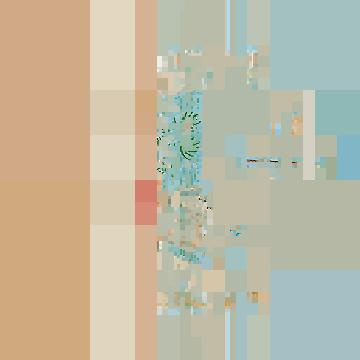
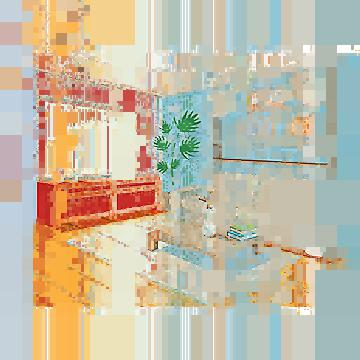
Updated the cluster creation for test

diff --git a/quadratic_tree_segmentation.py b/quadratic_tree_segmentation.py
@@ -1,9 +1,9 @@
 import numpy as np
 import matplotlib.image as img
-import matplotlib.colors as colors
 from metrics import pixel_distance_rgb, node_cluster_distance
 from copy import deepcopy
 import yaml
+import time
 
 # Init environment
 
@@ -14,7 +14,7 @@ nodes = []
 out_image = None
 
 tree_list = []
-clusters = []
+clusters = {}
 cluster_idx = 0
 
 
@@ -34,6 +34,7 @@ class Node:
         self.mg = 0.0
         self.mb = 0.0
 
+        # Cluster identification index
         self.cluster_idx = None
 
 
@@ -75,6 +76,19 @@ class Cluster:
         current_node = nodes[idx]
         d = node_cluster_distance(self.mr, self.mg, self.mb, current_node.mr, current_node.mg, current_node.mb)
         return d < tolerance
+
+
+def touching(n1_idx: int, n2_idx: int) -> bool:
+    global nodes
+    n1 = nodes[n1_idx]
+    n2 = nodes[n2_idx]
+
+    if n1.x == n2.x or n1.x == n2.x + n2.w:
+        return (n2.y <= n1.y <= n2.y + n2.h) or (n1.y <= n2.y <= n1.y + n1.h)
+    if n1.y == n2.y or n1.y == n2.y + n2.h:
+        return (n2.x <= n1.x <= n2.x + n2.w) or (n1.x <= n2.x <= n1.x + n1.w)
+
+    return False
 
 
 def homogenous(idx: int, tolerance: float, image: np.ndarray) -> bool:
@@ -151,15 +165,10 @@ def split(idx: int, tolerance: float, image: np.ndarray):
     _wo, _ho = w % 2, h % 2  # offsets
 
     original_x, original_y = current_node.x, current_node.y
-
     # Split the image to all successors
-
     global_tree[idx].append(add_node(idx, original_x, original_y, _w, _h, tolerance, image).idx)
-
     global_tree[idx].append(add_node(idx, original_x + _w, original_y, _w + _wo, _h, tolerance, image).idx)
-
     global_tree[idx].append(add_node(idx, original_x, original_y + _h, _w, _h + _ho, tolerance, image).idx)
-
     global_tree[idx].append(add_node(idx, original_x + _w, original_y + _h, _w + _wo, _h + _ho, tolerance, image).idx)
 
 
@@ -181,7 +190,7 @@ def create_tree(tolerance: float, image: np.ndarray) -> None:
     split(root.idx, tolerance, image)
 
 
-def apply_mean_rgb_node(idx: int, mr: float or None, mg: float or None, mb: float or None) -> None:
+def apply_mean_rgb_node(idx: int, mr: float or None = None, mg: float or None = None, mb: float or None = None) -> None:
     global global_tree
     global nodes
     global out_image
@@ -238,32 +247,49 @@ def create_clusters(tolerance: float):
     global cluster_idx
     global tree_list
 
-    base_cluster = Cluster(cluster_idx)
-    cluster_idx += 1
+    current_idx = 0
+    while current_idx != len(tree_list) // 10:
+        print(current_idx)
+        neighbours = list(filter(lambda idx: touching(idx, tree_list[current_idx]) or
+                                             touching(tree_list[current_idx], idx),
+                                 tree_list))
 
-    base_cluster.add_node(tree_list[0])
-    nodes[tree_list[0]].cluster_idx = base_cluster.idx
+        sorted_neighbours = sorted(neighbours, key=lambda n: -node_cluster_distance(
+                nodes[tree_list[current_idx]].mr, nodes[tree_list[current_idx]].mg, nodes[tree_list[current_idx]].mb,
+                nodes[tree_list[n]].mr, nodes[tree_list[n]].mg, nodes[tree_list[n]].mb))
 
-    clusters.append(base_cluster)
+        best_neighbour_idx = sorted_neighbours[0]
 
-    for node_idx in tree_list[1:]:
-        added = False
-
-        if nodes[node_idx].cluster_idx is None:
-            # It can be added to a cluster
-            for cluster in clusters:
-                if cluster.can_be_added(node_idx, tolerance):
-                    cluster.add_node(node_idx)
-                    nodes[node_idx].cluster_idx = cluster.idx
-                    added = True
-
-            if not added:
+        if nodes[current_idx].cluster_idx is None:
+            # Verify if the second node is already in a cluster
+            if nodes[best_neighbour_idx].cluster_idx is None:
+                # Create a new cluster and integrate both nodes
                 new_cluster = Cluster(cluster_idx)
                 cluster_idx += 1
 
-                # Add the node to the new cluster
-                new_cluster.add_node(node_idx)
-                clusters.append(new_cluster)
+                new_cluster.add_node(current_idx)
+                nodes[current_idx].cluster_idx = new_cluster.idx
+
+                new_cluster.add_node(best_neighbour_idx)
+                nodes[best_neighbour_idx].cluster_idx = new_cluster.idx
+
+                clusters[new_cluster.idx] = new_cluster
+            else:
+                neighbour_cluster_idx = nodes[best_neighbour_idx].cluster_idx
+                neighbour_cluster = clusters[neighbour_cluster_idx]
+
+                neighbour_cluster.add_node(current_idx)
+                nodes[current_idx].cluster_idx = neighbour_cluster.idx
+
+        else:
+            if nodes[best_neighbour_idx].cluster_idx is None:
+                current_cluster_idx = nodes[current_idx].cluster_idx
+                current_cluster = clusters[current_cluster_idx]
+
+                current_cluster.add_node(best_neighbour_idx)
+                nodes[best_neighbour_idx].cluster_idx = current_cluster.idx
+
+        current_idx += 1
 
 
 if __name__ == '__main__':
@@ -278,11 +304,13 @@ if __name__ == '__main__':
     mode = config['mode']
 
     # Split
-
     # Create a quadratic tree
-    create_tree(t, i)
 
-    print('Finished quadratic tree creation....')
+    start = time.process_time()
+    create_tree(t, i)
+    elapsed_time = time.process_time() - start
+
+    print('Finished quadratic tree creation after {}....'.format(elapsed_time))
 
     # Convert tree to list
     tree_to_list(0)
@@ -290,7 +318,7 @@ if __name__ == '__main__':
     out_image = deepcopy(i)
 
     for e in tree_list:
-        apply_mean_rgb_node(e, None, None, None)
+        apply_mean_rgb_node(e)  # with self mean values
 
     img.imsave('images/{}'.format(config['split_result']), out_image)
 
@@ -300,9 +328,16 @@ if __name__ == '__main__':
 
     out_image = deepcopy(i)
 
+    start = time.process_time()
     create_clusters(t)
+    elapsed_time = time.process_time() - start
+
+    print('Cluster of nodes has been created in {}....'.format(elapsed_time))
 
     for c in clusters:
-        apply_mean_cluster(c.idx)
+        print('Clusters[{}] = {}'.format(c, clusters[c].elements))
+        apply_mean_cluster(clusters[c].idx)
 
     img.imsave('images/{}'.format(config['merge_result']), out_image)
+
+    print('Saved merge version of the image....')
